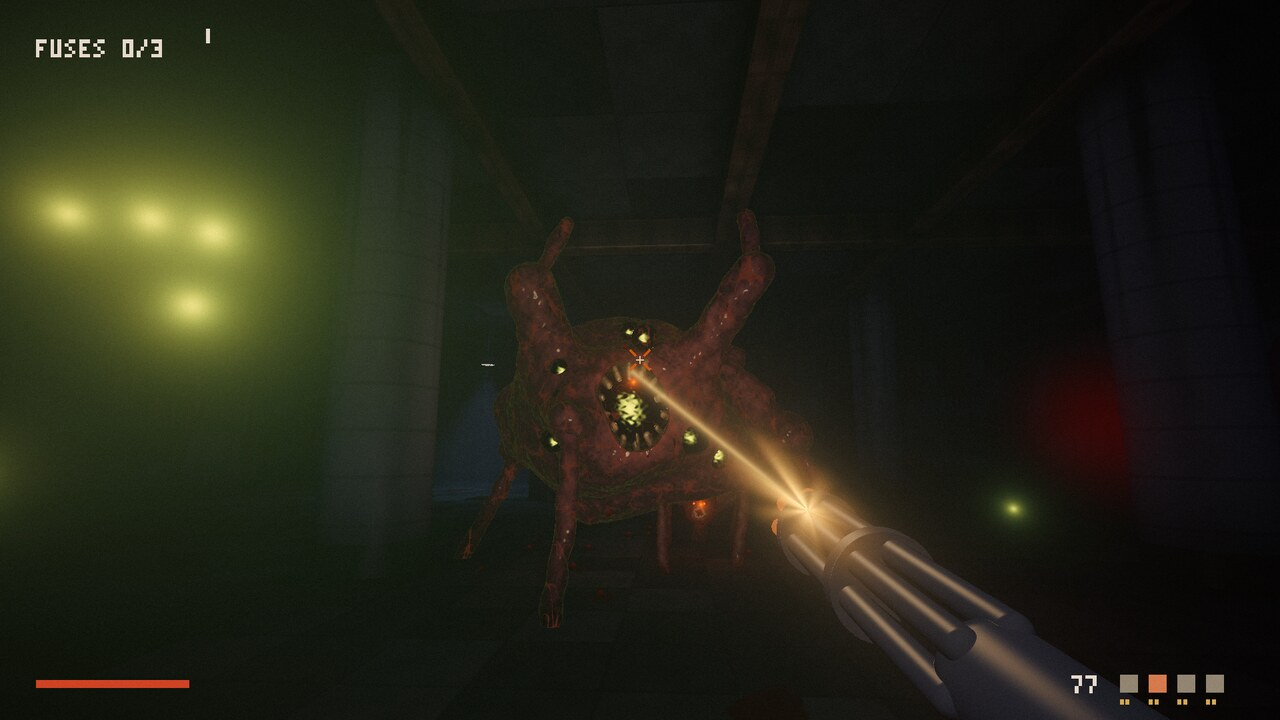
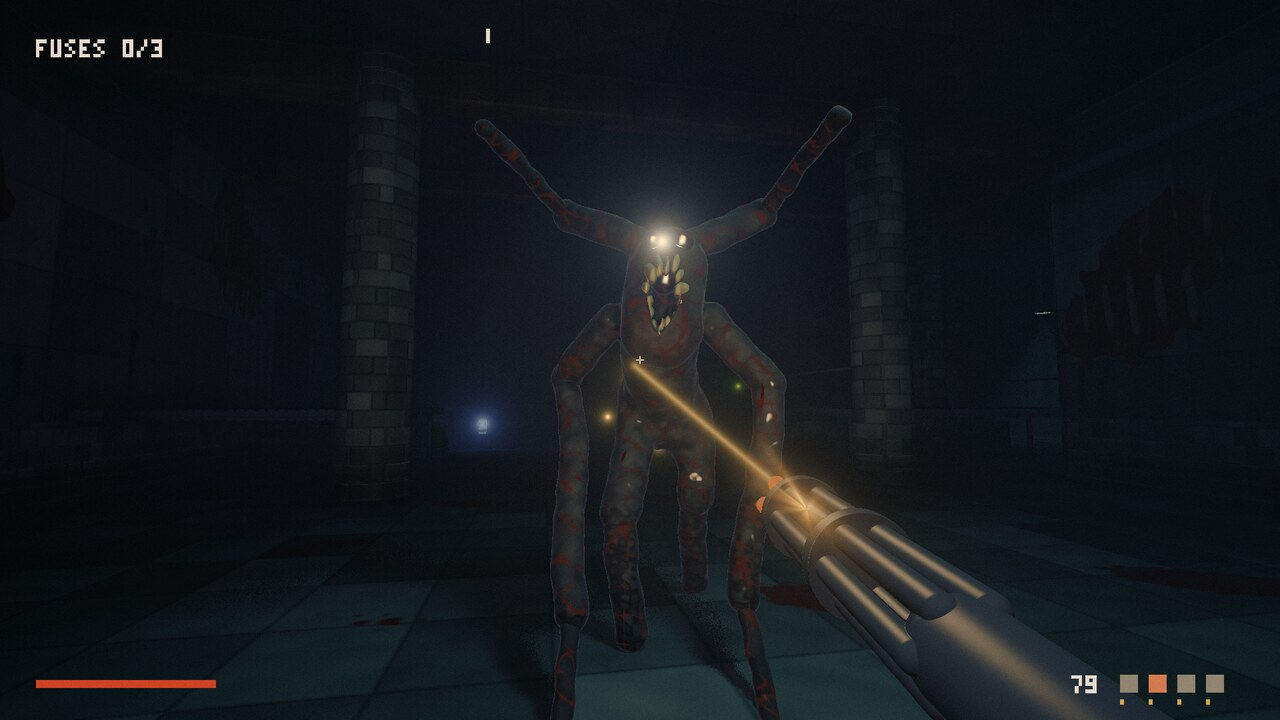
New README screenshot

diff --git a/README.md b/README.md
@@ -2,7 +2,7 @@
 
 A first-person horror shooter in under 16 KB, for Linux and Windows: the smallest native true-3D first-person shooter we know of (as of 2026). The smallest native true-3D ones we found before it are shooter32k (31,232 bytes) and nervk (about 32 KB); DEADWEIGHT (15,132 bytes) is smaller but a 2.5D raycaster.
 
-![A tentacle mass spitting at the player on floor six](assets/screenshot.jpg)
+![The floor-four hunter caught in the flashlight](assets/screenshot.jpg)
 
 Six floors, each a 4×4 grid of cells joined by arched doorways and merged into halls and L-shaped rooms: crypts, storerooms, meat lockers, boiler rooms and catwalks. The power is out. Find the three fuses on each floor; every fuse turns more lamps back on, and all three power the exit. Monsters keep crawling out of the dark rooms: crawler swarms, screamers that run at you and explode, tentacle masses that spit from range and brutes that charge. Each floor bends one rule: alarms kill the lights, crawlers drop from the ceiling, a brute that cannot die before the third fuse hunts you, the power stays dead. Floor six is a boss that only fuses can weaken. Beat it and the run starts again, harder, with more monsters awake and the rules in a new order.
 
